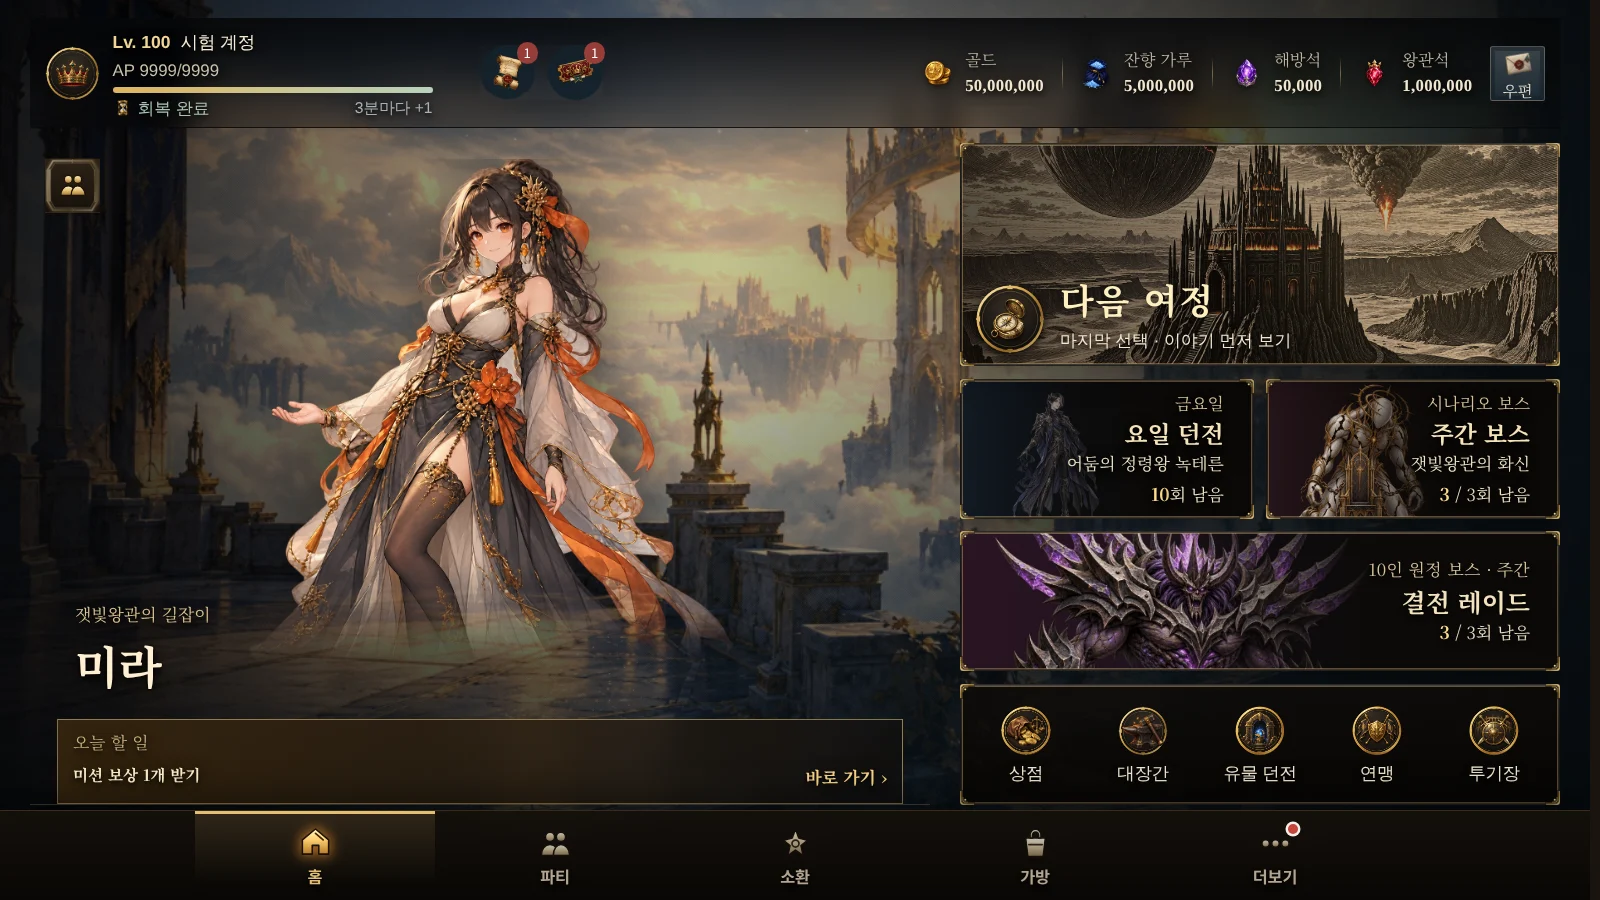
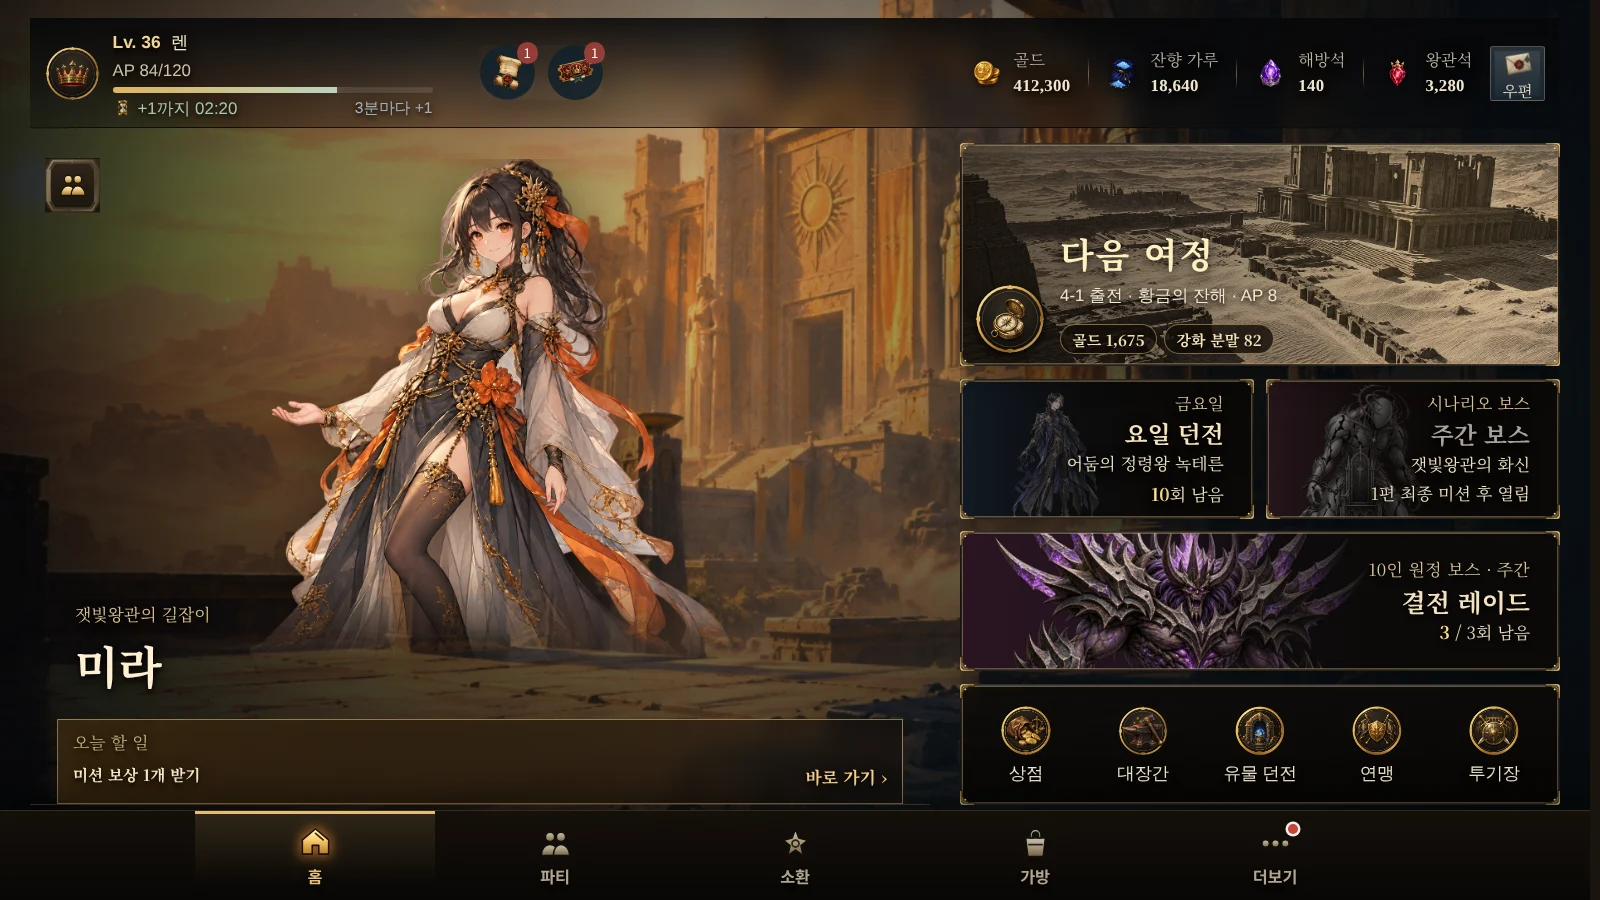
Use mid-game captures without test-account values
Claude-Session: https://claude.ai/code/session_01TPGdk7YcpomyfjPqxyNjTx

diff --git a/index.html b/index.html
@@ -352,7 +352,7 @@ footer .wrap{display:flex;flex-wrap:wrap;gap:8px 24px;justify-content:space-betw
     </div>
     <div class="split">
       <figure>
-        <img class="shot" src="img/forge.webp" alt="대장간 화면: 대장장이 볼드린, 강화할 동료와 장비 칸, 신화 장비 목록" loading="lazy" width="1600" height="900">
+        <img class="shot" src="img/forge.webp" alt="대장간 화면: 대장장이 볼드린, 강화할 동료, 에픽 무기가 끼워진 장비 칸" loading="lazy" width="1600" height="900">
         <figcaption><span lang="ko">대장간. 대장장이 볼드린이 강화와 신화 조합을 맡아 줍니다.</span><span lang="en">The forge, where Boldrin enhances gear and crafts Mythics.</span></figcaption>
       </figure>
       <div class="loot-side">
